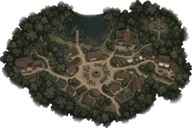
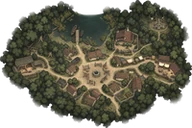
fix(flight): 夏爾村移到西南實地陸地＋大幅提亮 ver -829
Ray：「往西南移一個村落的位置」「太黑跟坨大便一樣」。
- 落點 1107,826 是雲海盆地（村泡在雲海裡）→ 往西南移到 (1088,864)：實心綠山陸地
  （footprint 93% 陸地，雲海盆地/湖在北側，plan 北向湖對得上），JOB＋SETTLEMENTS 同步。
- 提亮：val 1.12→1.50、sat 0.95（build_city 逐 JOB sat/val）——不再是深色一坨。

⚠ 仍待 Ray 飛過去確認：planRot 對齊湖水的角度、落點微調（村子在山坡上，之後可再挑更平的點）；
  量體層 cv2 就緒後補。

diff --git a/flight/index.html b/flight/index.html
@@ -808,7 +808,7 @@ const SETTLEMENTS = [
      ⚠⚠ mx/my/planW/planRot **必須與 build_city.py 的 shinier JOB 一致**。
      ⚠ `planRot` 待 3D 對齊地形湖水（Ray：「北向貼地形現有的湖水，可旋轉調整」）——先 0.0。
      ⚠ 量體層（_mass）暫缺（cv2 未就緒，nomass）：近距離少了牆體，之後補。 */
-  { n:'夏爾村', x:1107, y:826, t:'village', f:'empire', town:'shinier',
+  { n:'夏爾村', x:1088, y:864, t:'village', f:'empire', town:'shinier',
     plan:'city/shinier_plan.webp', planH:'city/shinier_h.webp',
     planW:360, planRot:0.0, planTall:24,
     podium:{ r:1.05, skirt:8, lift:0 } },

diff --git a/config.js b/config.js
@@ -49,7 +49,7 @@ export const HITFX = {
  *     以為是快取卡住 —— 版本號不動就等於沒有版本號）。
  *  ⚠ 它同時是**暖開機戳記的鑰匙**（main.js 的 `WARM_BOOT`）：版本一變，
  *    上一版的戳記就失效 → 下一次開機重跑完整讀取。那正是改版後該有的行為。 */
-export const VERSION = 'ver 2026.09.05-828';
+export const VERSION = 'ver 2026.09.05-829';
 
 export const GAME_CONFIG = {
 

diff --git a/flight/build_city.py b/flight/build_city.py
@@ -176,12 +176,12 @@ JOBS = [{
     'unsquash': 1.00,
     'maxdim': 200,
     'nomass': True,
-    'val': 1.12, 'sat': 0.90,   # ver -828：Ray「太黑」→ 提亮、彩度略回，貼近周圍地面色調
+    'val': 1.50, 'sat': 0.95,   # ver -829：Ray「太黑跟坨大便一樣」→ 大幅提亮
 
     'dst': 'shinier_plan.webp',
     'hdst': 'shinier_h.webp',
     'mdst': 'shinier_mass.webp', 'jdst': 'shinier_mass.json',
-    'mx': 1107, 'my': 826, 'planW': 360, 'planRot': 0.0,
+    'mx': 1088, 'my': 864, 'planW': 360, 'planRot': 0.0,   # ver -829：往西南移到實地陸地（雲海盆地/湖在北側）
     'landmarks': [],
 }]
 
